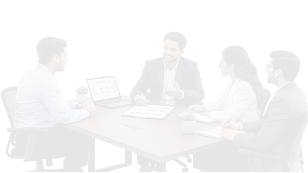
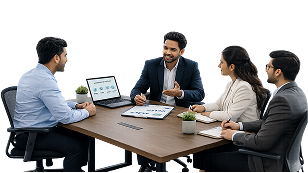
feat: implement Footer component with global theme styles and assets

diff --git a/app/components/Footer.tsx b/app/components/Footer.tsx
@@ -6,72 +6,70 @@ export default function Footer() {
   return (
     <footer className="w-full flex flex-col">
       {/* CTA & Contact Section */}
-      <section className="relative w-full bg-primary-1 text-white px-6 py-20 md:px-12 lg:px-24 flex flex-col lg:flex-row gap-12 lg:gap-24 overflow-hidden">
-        {/* Background Skewed Split */}
-        <div className="absolute inset-0 z-0 flex pointer-events-none">
-           <div className="w-[60%] h-full bg-primary-1"></div>
-           <div className="w-[60%] h-[150%] bg-[#1c706a] skew-x-[-20deg] origin-bottom-left -translate-y-1/4 shadow-2xl"></div>
-        </div>
-        
-        {/* Background Image overlay if available */}
-        <div className="absolute inset-0 z-0 opacity-10 mix-blend-overlay bg-cover bg-center pointer-events-none" style={{ backgroundImage: 'url("/cta image.png")' }}></div>
-        
+      <section className="relative w-full bg-cta-gradient text-white px-6 py-15 md:px-12 lg:px-24 flex flex-col lg:flex-row gap-12 lg:gap-24 overflow-hidden">
+
+        {/* Background Image overlay */}
+        <div className="absolute right-0 bottom-0 w-full h-48 lg:w-1/2  z-0 opacity-25 mix-blend-overlay bg-no-repeat bg-right bg-cover lg:bg-contain  pointer-events-none" style={{ backgroundImage: 'url("/cta image.png")' }}></div>
+
         {/* Left CTA */}
-        <div className="w-full lg:w-1/2 z-10 flex flex-col items-start justify-center">
-          <h2 className="text-3xl md:text-4xl font-bold mb-4 leading-tight">
+        <div className="w-full lg:w-1/2 z-10 flex flex-col items-start">
+          <h2 className="text-2xl  font-bold mb-2 leading-tight">
             Need Reliable Manpower for your Business ?
           </h2>
-          <p className="text-white/80 text-sm md:text-base leading-relaxed mb-8 max-w-lg">
-            Partner with A-Cube Institute of Skills for reliable manpower, recruitment, 
+          <p className="text-white text-sm mb-8 leading-relaxed max-w-lg font-medium">
+            Partner with A-Cube Institute of Skills for reliable manpower, recruitment,
             HR consulting, and industry-focused skill development programs.
           </p>
           <div className="flex flex-wrap gap-4">
-            <button className="bg-orange-500 hover:bg-orange-600 transition-colors text-white font-semibold px-6 py-3 rounded-full flex items-center gap-2">
+            <button className="bg-tertiary hover:bg-[#F57C00] transition-colors text-white font-bold px-4 py-3 rounded-2xl flex items-center gap-2">
               Get in touch <ArrowRight className="w-4 h-4" />
             </button>
-            <button className="bg-transparent border-2 border-white hover:bg-white/10 transition-colors text-white font-semibold px-6 py-3 rounded-full flex items-center gap-2">
+            <button className="bg-transparent border border-white hover:bg-white hover:text-tertiary transition-colors text-white font-bold px-4 py-3 rounded-2xl flex items-center gap-2">
               Download Profile <Download className="w-4 h-4" />
             </button>
           </div>
         </div>
 
         {/* Right Contact Info */}
-        <div className="w-full lg:w-1/2 z-10 grid grid-cols-1 md:grid-cols-2 gap-8 lg:gap-12">
-          <div className="flex flex-col gap-8">
+        <div className="w-full lg:w-1/2 z-10 flex flex-col md:flex-row gap-8 lg:gap-12">
+          <div className="w-full md:w-[200px] shrink-0 flex flex-col gap-8">
             <div className="flex gap-4">
-              <Phone className="w-6 h-6 shrink-0 text-primary-2" />
+              <Phone className="w-6 h-6 shrink-0 text-white" />
               <div>
                 <h4 className="font-bold mb-1 text-sm">Contact Us</h4>
-                <p className="text-sm text-white/80">91 9894 751 538<br/>0421 661 4336</p>
+                <p className="text-xs text-white leading-relaxed font-medium">91 9894 751 538<br />0421 661 4336</p>
               </div>
             </div>
             <div className="flex gap-4">
-              <Mail className="w-6 h-6 shrink-0 text-primary-2" />
+              <Mail className="w-6 h-6 shrink-0 text-white" />
               <div>
                 <h4 className="font-bold mb-1 text-sm">Enquiry</h4>
-                <a href="mailto:[email redacted]" className="text-sm text-white/80 hover:underline">[email redacted]</a>
+                <a href="mailto:[email redacted]" className="text-xs text-white hover:underline font-medium">[email redacted]</a>
               </div>
             </div>
           </div>
-          
-          <div className="flex gap-4">
-            <MapPin className="w-6 h-6 shrink-0 text-primary-2" />
+
+          {/* Divider */}
+          <div className="hidden md:block w-px bg-white/20 self-stretch shrink-0"></div>
+
+          <div className="flex-1 w-full flex gap-4">
+            <MapPin className="w-6 h-6 shrink-0 text-white" />
             <div className="flex flex-col gap-6">
               <h4 className="font-bold mb-1 text-sm">Office Location</h4>
-              
+
               <div>
-                <h5 className="font-bold text-xs text-white/90 mb-1">Registered Office</h5>
-                <p className="text-xs text-white/80 leading-relaxed">
-                  IInd Floor, Sibi's Nest, 042/14, Near Kannaki<br/>
-                  Departmental Stores, Perundurai Main Road,<br/>
+                <h5 className="font-bold text-[11px] text-white mb-1">Registered Office</h5>
+                <p className="text-[11px] text-white leading-relaxed">
+                  IInd Floor, Sibi's Nest, 042/14, Near Kannaki<br />
+                  Departmental Stores, Perundurai Main Road,<br />
                   Thindal, Erode - 638012
                 </p>
               </div>
-              
+
               <div>
-                <h5 className="font-bold text-xs text-white/90 mb-1">Head office</h5>
-                <p className="text-xs text-white/80 leading-relaxed">
-                  No:84, Sai Best Complex, Second Floor, Kuppana<br/>
+                <h5 className="font-bold text-[11px] text-white mb-1">Head office</h5>
+                <p className="text-[11px] text-white leading-relaxed">
+                  No:84, Sai Best Complex, Second Floor, Kuppana<br />
                   Chetty Street, Palladam road, Tiruppur- 641604
                 </p>
               </div>
@@ -81,21 +79,24 @@ export default function Footer() {
       </section>
 
       {/* Main Footer Links */}
-      <section className="w-full bg-[#072421] text-white px-6 py-16 md:px-12 lg:px-24 flex flex-col md:flex-row flex-wrap gap-12 lg:gap-8 justify-between border-b border-white/10">
+      <section className="w-full bg-[#00403C] text-white px-6 py-12 md:px-12 lg:px-24 flex flex-col md:flex-row flex-wrap gap-12 lg:gap-0 justify-between border-b border-white/10">
         {/* Brand */}
-        <div className="w-full lg:w-1/4 flex flex-col max-w-sm">
-          <Image src="/logo-footer.svg" alt="A-Cube Logo White" width={180} height={50} className="mb-6 w-auto h-12" />
-          <p className="text-xs text-white/60 leading-relaxed">
-            A-Cube Institute of Skills is a leading human resource supply and skill 
-            development solutions provider committed to empowering individuals 
+        <div className="w-full lg:w-2/5 flex flex-col max-w-sm">
+          <Image src="/logo-footer.svg" alt="A-Cube Logo White" width={220} height={60} className="mb-4 w-auto h-14" />
+          <p className="text-[11px] text-white leading-relaxed pr-8">
+            A-Cube Institute of Skills is a leading human resource supply and skill
+            development solutions provider committed to empowering individuals
             and supporting organization.
           </p>
         </div>
 
+        {/* Divider */}
+        <div className="hidden lg:block w-px bg-white/5 self-stretch"></div>
+
         {/* Quick Links */}
         <div className="flex flex-col">
-          <h4 className="font-bold text-sm mb-6">Quick Links</h4>
-          <ul className="flex flex-col gap-3 text-sm text-white/70">
+          <h4 className="font-bold text-sm mb-5">Quick Links</h4>
+          <ul className="flex flex-col gap-3 text-xs text-white/80 font-medium">
             <li><Link href="/" className="hover:text-white transition-colors">Home</Link></li>
             <li><Link href="/about" className="hover:text-white transition-colors">About us</Link></li>
             <li><Link href="/services" className="hover:text-white transition-colors">Services</Link></li>
@@ -104,10 +105,13 @@ export default function Footer() {
           </ul>
         </div>
 
+        {/* Divider */}
+        <div className="hidden lg:block w-px bg-white/5 self-stretch"></div>
+
         {/* Our Services */}
         <div className="flex flex-col">
-          <h4 className="font-bold text-sm mb-6">Our Services</h4>
-          <ul className="flex flex-col gap-3 text-sm text-white/70">
+          <h4 className="font-bold text-sm mb-5">Our Services</h4>
+          <ul className="flex flex-col gap-3 text-xs text-white/80 font-medium">
             <li><Link href="#" className="hover:text-white transition-colors">Human Resource Supply</Link></li>
             <li><Link href="#" className="hover:text-white transition-colors">Recruitment Service</Link></li>
             <li><Link href="#" className="hover:text-white transition-colors">Skill development & Training</Link></li>
@@ -115,10 +119,13 @@ export default function Footer() {
           </ul>
         </div>
 
+        {/* Divider */}
+        <div className="hidden lg:block w-px bg-white/5 self-stretch"></div>
+
         {/* Certifications */}
         <div className="flex flex-col">
-          <h4 className="font-bold text-sm mb-6">Certifications</h4>
-          <ul className="flex flex-col gap-3 text-sm text-white/70">
+          <h4 className="font-bold text-sm mb-5">Certifications</h4>
+          <ul className="flex flex-col gap-3 text-xs text-white/80 font-medium">
             <li>ISO 9001:2015 certified</li>
             <li>Certificate of Incorporation</li>
             <li>GST Registeration</li>
@@ -130,8 +137,14 @@ export default function Footer() {
       </section>
 
       {/* Bottom Bar */}
-      <div className="w-full bg-[#072421] text-center py-6 text-sm text-white/60">
-        Footer Dev <span className="text-[#FFB800] font-medium">Credit</span>
+      <div className="w-full bg-[#003431] flex flex-col md:flex-row justify-between items-center px-6 md:px-12 lg:px-24 py-4 text-xs text-white/60 gap-4">
+        <div>
+          &copy; 2026 A-Cube Institute of Skills | Developed by <span className="font-medium"><a href="https://jadbery.com" className="text-white hover:underline">Jadbery Digital</a></span>
+        </div>
+        <div className="flex gap-6 font-medium">
+          <Link href="#" className="hover:text-white transition-colors">Privacy Policy</Link>
+          <Link href="#" className="hover:text-white transition-colors">Terms of Service</Link>
+        </div>
       </div>
     </footer>
   );

diff --git a/app/globals.css b/app/globals.css
@@ -4,12 +4,13 @@
   --color-background: #F0F7F6;
   --color-foreground: #333333;
   --font-sans: var(--font-dm-sans), Arial, Helvetica, sans-serif;
-  
+
   --color-primary-1: #24837D;
   --color-primary-2: #70E0DD;
   --color-primary-dark: #24837D;
+
+  --color-tertiary: #F89C03;
   --color-black: #333333;
-  
   --shadow-custom: 0px 0px 4px 0px rgba(0, 0, 0, 0.25);
 }
 
@@ -27,4 +28,8 @@ body {
 
 .bg-primary-gradient {
   background: linear-gradient(90deg, #2D9F90 0%, #A0DAAD 100%);
+}
+
+.bg-cta-gradient {
+  background: linear-gradient(90deg, #2D9F90 0%, #2D9F90 60%, #6cc680 100%);
 }